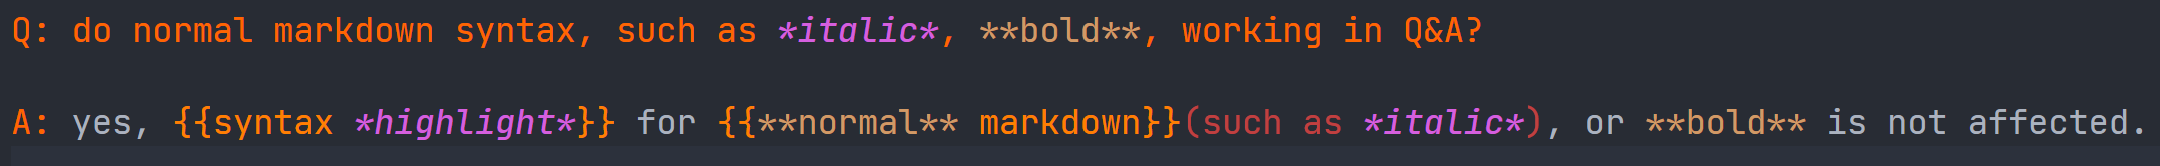
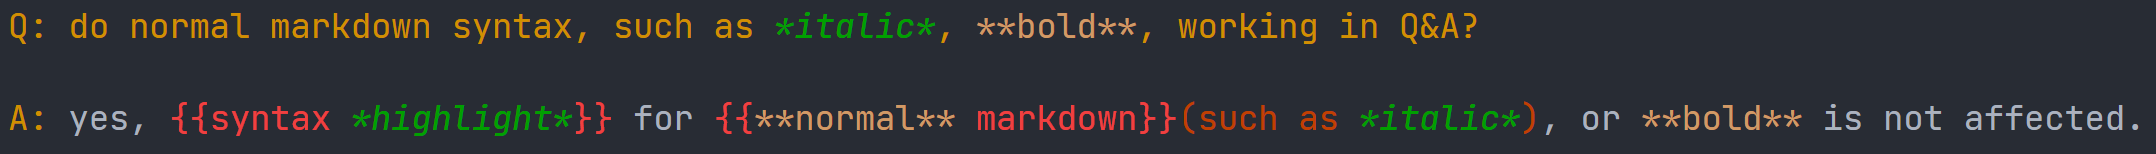
update color theme

Changed region(s): [[0.0, 0.6234, 0.9944, 0.8831], [0.0, 0.0779, 0.6837, 0.2857]]

diff --git a/README.md b/README.md
@@ -3,24 +3,24 @@
 settings.json
 
 ```json
-   "editor.tokenColorCustomizations": {
+    "editor.tokenColorCustomizations": {
         "textMateRules": [
             {
                 "scope": "cornell.question",
                 "settings": {
-                    "foreground": "#FF8000",
+                    "foreground": "#D19000",
                 }
             },
             {
                 "scope": "cornell.answer",
                 "settings": {
-                    "foreground": "#FF8000",
+                    "foreground": "#D19000",
                 }
             },
             {
                 "scope": "supermemo.cloze",
                 "settings": {
-                    "foreground": "#FFC000",
+                    "foreground": "#F04040",
                 }
             },
             {
